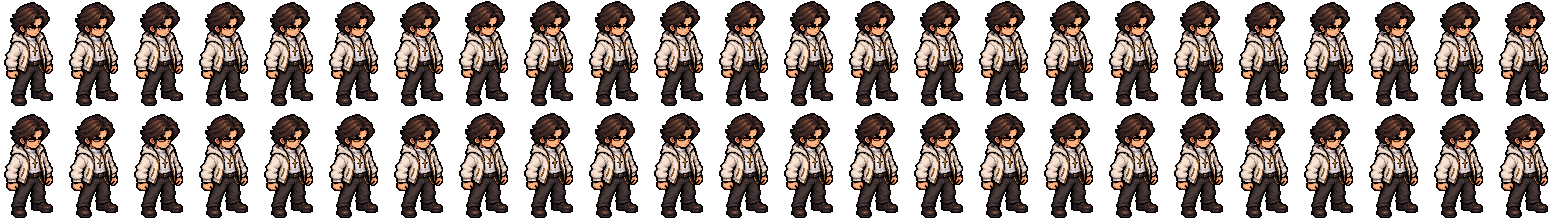
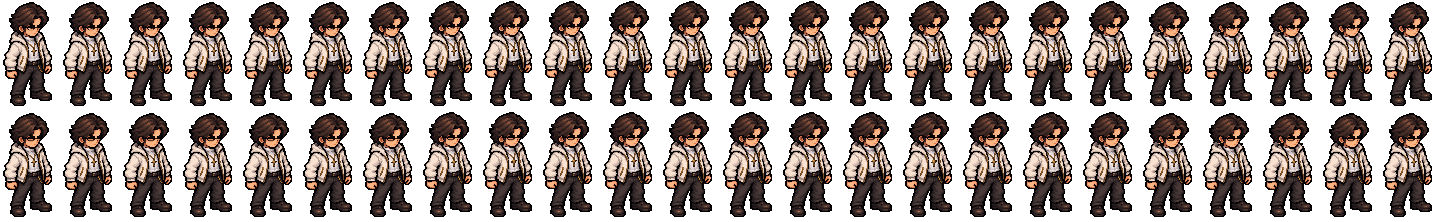
Boneco: o andar desenhado quadro a quadro entra pelo boneco.py
- Joelho e cotovelo exagerados ficaram estranhos: girar peças de um
  desenho de 104 pixels quebra as linhas do pixel art. O andar montado
  das peças volta à versão contida e fica provisório.
- scripts/boneco.py --andar-desenhado <pasta>: lê o andar desenhado de
  cada direção (andar-<estado>-<direção>.png, os quadros lado a lado,
  fundo verde ou transparente), separa os quadros, reduz para a escala
  da pose parada, pinta com as cores dela, alinha pelo meio do tronco e
  pelo pé mais baixo e acha os pés para a sombra. Faltando sw, w ou nw,
  espelha se, e ou ne. O parado continua respirando e piscando.
- Cada direção pode ter a sua fase do andar no meio da casa (faseAndar
  no anim.json), porque o desenho pode começar o ciclo em outro ponto.
- ARTE.md, CHECKLIST-ARTE.md e AGENTS.md com o formato do pedido.

Changed region(s): [[0.0, 0.5135, 1.0, 0.973], [0.0, 0.0, 1.0, 0.4865]]

diff --git a/client/src/room/RoomView.ts b/client/src/room/RoomView.ts
@@ -1209,7 +1209,7 @@ export class RoomView {
         const fechado = bd.info.olhos && piscando(u, now);
         if (p.moving) {
           const n = bd.andar.length;
-          const i = Math.floor((((casas + la.anim.faseAndar) % 1) + 1) % 1 * n) % n;
+          const i = Math.floor((((casas + (bd.info.faseAndar ?? la.anim.faseAndar)) % 1) + 1) % 1 * n) % n;
           bq = (fechado && bd.andarFechado ? bd.andarFechado : bd.andar)[i];
           bpes = bd.info.pesAndar[i] ?? null;
         } else {

diff --git a/server/src/portraits.ts b/server/src/portraits.ts
@@ -131,6 +131,7 @@ export function findAnim(sheet: string, dir = ART_DIR): AnimTabuleiro | undefine
         andar: { url: url + d.andar.arquivo, quadros: d.andar.quadros },
         pesParado: d.pesParado ?? [],
         pesAndar: d.pesAndar ?? [],
+        ...(typeof d.faseAndar === 'number' ? { faseAndar: d.faseAndar } : {}),
       };
     }
     if (Object.keys(out).length) estados[s] = out;

diff --git a/shared/src/protocol.ts b/shared/src/protocol.ts
@@ -162,6 +162,8 @@ export interface AnimDirecao {
   andar: AnimTira;
   pesParado: PeQuadro[][];
   pesAndar: PeQuadro[][];
+  /** a fase do andar no meio da casa só desta direção (o andar desenhado pode começar o ciclo em outro ponto) */
+  faseAndar?: number;
 }
 
 /** O boneco animado do tabuleiro (anim.json, gerado por scripts/boneco.py). */

diff --git a/scripts/boneco.py b/scripts/boneco.py
@@ -14,15 +14,18 @@ são cópias mais escuras dos de perto.
 
 O movimento é de um esqueleto 3D, projetado na grade do tabuleiro em cada
 direção:
-- andar: um ciclo (dois passos) por casa, com contato, passagem e impulso; o
-  pé que apoia vai para trás no chão e o outro passa no ar; o joelho dobra; o
-  quadril desce no contato e sobe na passagem e leva o peso para o lado da
-  perna que apoia; os braços vão ao contrário das pernas, com o cotovelo
-  dobrando na ida; o tronco inclina um pouco e os ombros giram ao contrário
-  do quadril; a bota rola do calcanhar para a ponta;
 - parado: a respiração (peito, ombros, pescoço, cabeça e braços sobem um
-  pouco, cada um um tempo depois do outro);
-- o cabelo e a barra do casaco vão atrás, com mola.
+  pouco, cada um um tempo depois do outro; o cabelo e a barra vão atrás) e,
+  em cada quadro, a versão de olhos fechados para piscar;
+- andar (provisório): um ciclo (dois passos) por casa; o pé que apoia vai
+  para trás no chão e o outro passa um pouco erguido, o quadril sobe e desce,
+  os braços vão ao contrário das pernas. Girar peças de um desenho de 104
+  pixels quebra o pixel art, então o andar bom vem desenhado quadro a quadro:
+  com --andar-desenhado <pasta> (andar-<estado>-<direção>.png, os quadros
+  lado a lado, fundo verde ou transparente), os quadros são separados,
+  reduzidos para a escala da pose parada, pintados com as cores dela e
+  alinhados pelo meio do tronco e pelo pé mais baixo; faltando sw, w ou nw,
+  entra se, e ou ne espelhado.
 
 As peças do tronco e da roupa deslizam linha a linha (cisalhamento, como o
 animador de pixel art faz nas inclinações pequenas); as dos membros giram em
@@ -37,7 +40,7 @@ Grava na pasta das poses do personagem:
   ficam os pés em cada quadro (a sombra de contato vai embaixo de cada um).
 
 Uso:
-  python scripts/boneco.py <personagem> [--estado desarmado] [--previa saida.png]
+  python scripts/boneco.py <personagem> [--estado desarmado] [--andar-desenhado <pasta>] [--quadros 8] [--previa saida.png]
 
 Precisa de Python com PyMuPDF e numpy (os mesmos do Veríssimo).
 """
@@ -271,7 +274,7 @@ class Esqueleto:
         self.tornozelo = r['tornozelo_d'][2]
         self.pes = {}
 
-    def andar(self, fi, passo=0.19, apoio=0.56, ergue=0.13, balanco=0.014, braco=22.0):
+    def andar(self, fi, passo=0.17, apoio=0.56, ergue=0.055, balanco=0.013, braco=16.0):
         """A pose do andar na fase fi (0..1): o pé direito pisa em 0 e o esquerdo em 0,5."""
         j = {k: v.copy() for k, v in self.rep.items()}
         # andando, os joelhos ficam um pouco dobrados (o quadril desce 2 cm): sobra perna para o
@@ -296,17 +299,15 @@ class Esqueleto:
             f = (fi - desl) % 1.0
             quad = j[f'quadril_{ld}']
             if f < apoio:
-                # no chão: o pé vai do passo à frente até o passo atrás; no fim, o calcanhar sobe
-                # antes de o pé sair (o joelho já começa a dobrar)
+                # no chão: o pé vai do passo à frente até o passo atrás
                 pe_f = passo - 2 * passo * (f / apoio)
-                alt = 0.035 * suave((f - (apoio - 0.14)) / 0.14)
+                alt = 0.0
                 incl = 14 * (1 - suave(f / 0.12)) - 22 * suave((f - (apoio - 0.16)) / 0.16)
             else:
-                # no ar: o pé sai de trás chutando um pouco para trás e para cima (o joelho dobra bem,
-                # o calcanhar vai para perto da coxa), passa embaixo do corpo e estica para pisar
+                # no ar: o pé passa embaixo do corpo, um pouco erguido
                 a = (f - apoio) / (1 - apoio)
-                pe_f = -passo + 2 * passo * suave((a - 0.12) / 0.88) - 0.075 * math.sin(math.pi * min(1.0, a / 0.55))
-                alt = 0.035 * (1 - suave(a / 0.25)) + ergue * math.sin(math.pi * min(1.0, a / 0.85)) ** 0.9
+                pe_f = -passo + 2 * passo * suave(a)
+                alt = ergue * math.sin(math.pi * a) ** 1.2
                 incl = -22 * (1 - suave(a / 0.35)) + 12 * suave((a - 0.55) / 0.45)
             r_pe = self.rep[f'tornozelo_{ld}'][1] + (quad[1] - self.rep[f'quadril_{ld}'][1]) * 0.3
             torn = np.array([quad[0] + pe_f, r_pe, self.tornozelo + alt])
@@ -317,8 +318,8 @@ class Esqueleto:
         for ld, desl in (('d', 0.0), ('e', 0.5)):
             f = (fi - desl - 0.04) % 1.0
             alfa = -braco * math.cos(2 * math.pi * f)
-            # o cotovelo fica sempre um pouco dobrado e dobra mais quando o braço vai para a frente
-            beta = 14 + 42 * max(0.0, -math.cos(2 * math.pi * f)) ** 1.2
+            # o cotovelo dobra um pouco quando o braço vai para a frente
+            beta = 4 + 10 * max(0.0, -math.cos(2 * math.pi * f))
             self._braco(j, ld, alfa, beta)
         return j
 
@@ -705,7 +706,159 @@ def tira(linhas, x0, y0, x1, y1):
     return out
 
 
-def gerar(personagem, estado, previa=None):
+# ---------------------------------------------------------------- o andar desenhado (quadro a quadro)
+
+ESPELHO = {'e': 'w', 'w': 'e', 'se': 'sw', 'sw': 'se', 'ne': 'nw', 'nw': 'ne'}
+
+
+def ler_fonte(caminho):
+    """A imagem do gerador: o verde puro (#00FF00) vira transparente; o corpo fica opaco e o halo sai."""
+    a = ler_rgba(caminho)
+    verde = (a[:, :, 0] < 60) & (a[:, :, 1] > 200) & (a[:, :, 2] < 60)
+    a[verde] = 0
+    op = a[:, :, 3] >= 128
+    a[~op] = 0
+    a[op, 3] = 255
+    return a
+
+
+def fonte_andar(pasta, estado, nome):
+    """O andar desenhado da direção (ou o da direção espelhada, virado de lado). (imagem, espelhada) ou (None, False)."""
+    for d, espelha in ((nome, False), (ESPELHO.get(nome), True)):
+        if not d or not pasta:
+            continue
+        for arq in (f'andar-{estado}-{d}.png', f'andar-{d}.png', f'{d}.png'):
+            p = os.path.join(pasta, arq)
+            if os.path.exists(p):
+                a = ler_fonte(p)
+                return (a[:, ::-1].copy() if espelha else a), espelha
+    return None, False
+
+
+def faixas_cheias(v, minimo=1, vao=3):
+    """Faixas de colunas com corpo, separadas por pelo menos `vao` colunas vazias."""
+    out, ini, vazio = [], None, 0
+    for i, x in enumerate(v):
+        if x >= minimo:
+            if ini is None:
+                ini = i
+            vazio = 0
+            fim = i
+        elif ini is not None:
+            vazio += 1
+            if vazio >= vao:
+                out.append((ini, fim))
+                ini = None
+    if ini is not None:
+        out.append((ini, fim))
+    return out
+
+
+def quadros_da_tira(a, n):
+    """Os `n` quadros de uma tira do gerador (lado a lado), cada um recortado no corpo."""
+    op = a[:, :, 3] > 0
+    cols = faixas_cheias(op.sum(axis=0))
+    if len(cols) != n:
+        # quadros encostados: corta em partes iguais
+        w = a.shape[1] / n
+        cols = [(int(round(i * w)), int(round((i + 1) * w)) - 1) for i in range(n)]
+    out = []
+    for x0, x1 in cols:
+        cel = a[:, x0:x1 + 1]
+        ys, xs = np.nonzero(cel[:, :, 3] > 0)
+        out.append(cel[ys.min():ys.max() + 1, xs.min():xs.max() + 1].copy())
+    return out
+
+
+def reduzir_pixel(rgba, escala):
+    """Pixel duro: cada pixel novo pega a cor mais frequente do bloco; só fica opaco se o bloco for mais da metade corpo."""
+    h, w = rgba.shape[:2]
+    oh, ow = max(1, int(round(h * escala))), max(1, int(round(w * escala)))
+    out = np.zeros((oh, ow, 4), dtype=np.uint8)
+    op = rgba[:, :, 3] > 0
+    for v in range(oh):
+        y0 = int(v / escala)
+        y1 = max(y0 + 1, int((v + 1) / escala))
+        for u in range(ow):
+            x0 = int(u / escala)
+            x1 = max(x0 + 1, int((u + 1) / escala))
+            bloco = op[y0:y1, x0:x1]
+            if bloco.size == 0 or bloco.mean() < 0.5:
+                continue
+            cores = rgba[y0:y1, x0:x1, :3][bloco].astype(int)
+            chave = (cores[:, 0] // 24) * 10000 + (cores[:, 1] // 24) * 100 + cores[:, 2] // 24
+            vals, cont = np.unique(chave, return_counts=True)
+            out[v, u, :3] = cores[chave == vals[cont.argmax()]].mean(axis=0).round().astype(np.uint8)
+            out[v, u, 3] = 255
+    return out
+
+
+def centro_e_chao(q):
+    """O meio do tronco e da cabeça (os 55% de cima do corpo) e a linha do chão (embaixo do pé mais baixo)."""
+    op = q[:, :, 3] > 0
+    ys, xs = np.nonzero(op)
+    topo, base = ys.min(), ys.max()
+    cima = ys <= topo + 0.55 * (base - topo)
+    return float(xs[cima].mean()), int(base) + 1
+
+
+def pes_do_quadro(q, x_anc, y_anc, lado):
+    """Os dois pés de um quadro desenhado (as duas manchas de baixo), em pixels a partir da âncora."""
+    op = q[:, :, 3] > 0
+    ys, xs = np.nonzero(op)
+    chao = ys.max() + 1
+    faixa = op[max(0, chao - 6):chao]
+    cols = faixas_cheias(faixa.sum(axis=0), 1, 2)
+    manchas = []
+    for x0, x1 in cols:
+        sub = op[:chao, x0:x1 + 1]
+        fundo = np.nonzero(sub.any(axis=1))[0].max() + 1
+        manchas.append(((x0 + x1) / 2, fundo, int(faixa[:, x0:x1 + 1].sum())))
+    manchas = sorted(manchas, key=lambda m: -m[2])[:2] or [(xs.mean(), chao, 1)]
+    if len(manchas) == 1:
+        manchas = manchas * 2
+    out = []
+    for x, fundo, _ in sorted(manchas):
+        # de lado dá para ver o pé no ar (a sola acima do chão); de frente ou de costas, o pé de trás também fica mais alto
+        alt = float(chao - fundo) if lado else 0.0
+        out.append([round(float(x - x_anc), 1), round(float(fundo - 3 - y_anc + alt), 1), round(alt, 1)])
+    return out
+
+
+def andar_desenhado(fonte, img_parada, anc_parada, n, lado):
+    """
+    Os quadros do andar desenhado de uma direção, no quadro do boneco (com as
+    margens): na escala da pose parada, com as cores dela, o meio do tronco
+    alinhado com o dela e o pé mais baixo no chão dela. Devolve (quadros, pés).
+    """
+    qs = quadros_da_tira(fonte, n)
+    op = img_parada[:, :, 3] > 0
+    ys = np.nonzero(op.any(axis=1))[0]
+    alvo = ys.max() - ys.min() + 1
+    escala = alvo / float(np.median([q.shape[0] for q in qs]))
+    paleta = np.unique(img_parada[op][:, :3].astype(int), axis=0)
+    cx0, chao0 = centro_e_chao(img_parada)
+    H, W = img_parada.shape[:2]
+    Ho, Wo = H + MT + MB, W + ML + MR
+    quadros, pes = [], []
+    for q in qs:
+        r = reduzir_pixel(q, escala)
+        m = r[:, :, 3] > 0
+        # as cores da pose parada (sem pular de cor quando ela sai andando)
+        r[m, :3] = mais_perto(r[m][:, :3].astype(float), paleta)
+        cx, chao = centro_e_chao(r)
+        dx, dy = int(round(cx0 - cx)) + ML, chao0 - chao + MT
+        out = np.zeros((Ho, Wo, 4), dtype=np.uint8)
+        h, w = r.shape[:2]
+        y0, x0 = max(0, dy), max(0, dx)
+        y1, x1 = min(Ho, dy + h), min(Wo, dx + w)
+        out[y0:y1, x0:x1] = r[y0 - dy:y1 - dy, x0 - dx:x1 - dx]
+        quadros.append(out)
+        pes.append(pes_do_quadro(out, anc_parada[0] + ML, anc_parada[1] + MT, lado))
+    return quadros, pes
+
+
+def gerar(personagem, estado, previa=None, desenhado=None, quadros_desenhados=8):
     anot = json.load(open(os.path.join(BONECOS, f'{personagem}.json'), encoding='utf-8'))
     pasta = os.path.join(PERSONAGENS, personagem, SUB)
     s = anot['direcoes']['s']
@@ -721,13 +874,19 @@ def gerar(personagem, estado, previa=None):
         d = Direcao(nome, img, anot['direcoes'][nome], esq)
         olhos = 'cabeca_fechada' in d.pecas
         res = {}
+        fonte, espelhada = fonte_andar(desenhado, estado, nome)
         for tipo in ('parado', 'andar'):
             abertos, fechados, pes = [], [], []
-            for p, extra, pe in ciclo(d, esq, tipo):
-                abertos.append(d.quadro(p, extra))
-                if olhos:
-                    fechados.append(d.quadro(p, dict(extra, olhos_fechados=True)))
-                pes.append(pe)
+            if tipo == 'andar' and fonte is not None:
+                # o andar desenhado quadro a quadro (sem a linha de olhos fechados: andando, não pisca)
+                abertos, pes = andar_desenhado(fonte, img, anot['direcoes'][nome]['chao'], quadros_desenhados, nome in ('e', 'w'))
+                print(f'{nome}: andar desenhado' + (' (espelhado)' if espelhada else ''))
+            else:
+                for p, extra, pe in ciclo(d, esq, tipo):
+                    abertos.append(d.quadro(p, extra))
+                    if olhos:
+                        fechados.append(d.quadro(p, dict(extra, olhos_fechados=True)))
+                    pes.append(pe)
             res[tipo] = (abertos, fechados, pes)
         todos = [q for t in res.values() for q in t[0] + t[1]]
         x0, y0, x1, y1 = recorte(todos)
@@ -735,18 +894,24 @@ def gerar(personagem, estado, previa=None):
         info = {'w': int(x1 - x0), 'h': int(y1 - y0), 'ax': round(float(anc[0]), 1), 'ay': round(float(anc[1]), 1), 'olhos': olhos}
         for tipo, (abertos, fechados, pes) in res.items():
             arq = f'{tipo}-{estado}-{nome}.png'
-            gravar_rgba(tira([abertos] + ([fechados] if olhos else []), x0, y0, x1, y1), os.path.join(pasta, arq))
+            gravar_rgba(tira([abertos] + ([fechados] if fechados else []), x0, y0, x1, y1), os.path.join(pasta, arq))
             info[tipo] = {'arquivo': arq, 'quadros': len(abertos)}
             info['pes' + tipo.capitalize()] = pes
-        manifesto['estados'][estado][nome] = info
-        # a fase do meio da casa: a passagem (os pés mais perto do lugar de parado)
+        # a fase do meio da casa: a passagem (os pés mais perto do lugar de parado e um do outro)
         pes_andar = res['andar'][2]
         pes_parado = res['parado'][2][0]
-        fases.append([sum(abs(a - b) for pa, pb in zip(pe, pes_parado) for a, b in zip(pa[:2], pb[:2])) + sum(pa[2] for pa in pe) for pe in pes_andar])
+        custo_dir = [sum(abs(a - b) for pa, pb in zip(pe, pes_parado) for a, b in zip(pa[:2], pb[:2])) + sum(pa[2] for pa in pe) for pe in pes_andar]
+        if fonte is not None:
+            # desenhado: a passagem é o quadro com os pés mais juntos
+            custo_dir = [abs(pe[0][0] - pe[1][0]) + abs(pe[0][1] - pe[1][1]) for pe in pes_andar]
+            info['faseAndar'] = round(float(np.argmin(custo_dir)) / len(pes_andar), 4)
+        else:
+            fases.append(custo_dir)
+        manifesto['estados'][estado][nome] = info
         if previa:
             linhas_previa.append([q[y0:y1, x0:x1] for q in res['parado'][0][:1] + res['andar'][0]])
         print(f'{nome}: {info["w"]}x{info["h"]}, âncora ({info["ax"]}, {info["ay"]}), olhos: {"sim" if olhos else "não"}')
-    custo = np.sum(np.array(fases), axis=0)
+    custo = np.sum(np.array(fases), axis=0) if fases else np.zeros(N_ANDAR)
     manifesto['faseAndar'] = round(float(np.argmin(custo)) / N_ANDAR, 4)
     with open(os.path.join(pasta, 'anim.json'), 'w', encoding='utf-8', newline='\n') as f:
         json.dump(manifesto, f, ensure_ascii=False, separators=(',', ':'))
@@ -773,8 +938,10 @@ def main():
     ap.add_argument('personagem', help='pasta em client/public/arte/personagens e marcações em scripts/bonecos (ex.: alosi)')
     ap.add_argument('--estado', default='desarmado')
     ap.add_argument('--previa', help='grava também uma folha ampliada com os quadros')
+    ap.add_argument('--andar-desenhado', help='pasta com o andar desenhado quadro a quadro (andar-<estado>-<direção>.png, os quadros lado a lado)')
+    ap.add_argument('--quadros', type=int, default=8, help='quadros de cada tira do andar desenhado (8 por padrão)')
     a = ap.parse_args()
-    gerar(a.personagem, a.estado, a.previa)
+    gerar(a.personagem, a.estado, a.previa, a.andar_desenhado, a.quadros)
 
 
 if __name__ == '__main__':

diff --git a/AGENTS.md b/AGENTS.md
@@ -86,7 +86,7 @@ Pediram arte ("começa a arte", "faz os retratos", "faz os ícones da FICHAS")? 
 - **Ficha:** PV, PE e SAN (atual e total) por personagem, com as condições do livro (machucado, perturbado, morrendo, enlouquecendo). As cartas mostram as barrinhas; o retrato respira conforme a ficha e usa a imagem do estado (`docs/ARTE.md`). Peça de agente sem PV, PE e SAN (nova, ou de antes da ficha) pega os da ficha quando o servidor sobe.
 - A mesa (`client/src/ui/table.ts`) só mostra o tabuleiro e segue a última cena que o mestre abriu, em qualquer campanha; em combate, mostra também a rodada, de quem é a vez e a ordem. O servidor recusa qualquer ação que venha da mesa.
 - O contrato (`docs/CONTRATO.md`) e o `SessionStore` existem; a tela MAPA ainda usa parte das mensagens antigas.
-- Personagens: D.Tepes, Catarina Albuquerque, Alosi Walker e Cora Falcão, com as folhas em `client/public/arte/personagens/`. O mestre gira o personagem parado com ↺ ↻ nas cartas ou Q e E. **Decidido em 30/09:** essas folhas são a arte de referência de cada agente (grande na FICHAS e, depois, na Hand do jogador); o tabuleiro vai ganhar folhas novas, em estilo 32 bits, com todos os ângulos e as animações de andar. **Poses do tabuleiro:** o Tepes já tem as quatro poses paradas em 32 bits (`tabuleiro-32bits/`, frente virada para a direita); o servidor acha as imagens na pasta (`findPoses`, em `server/src/portraits.ts`) e o tabuleiro e a mesa escolhem a pose pelo Armado e pelos PV (menos da metade = machucado). As outras direções entram sozinhas quando chegarem, no formato do `docs/ARTE.md` ("Poses do tabuleiro"). **Decidido em 30/09, revisto em 01/10:** o tabuleiro inteiro (bonecos e mapa) vai para pixel art chibi na grade 1:1 (1 pixel da arte = 1 da tela: casa 64×32, pessoa ~104 de altura; na 2:1 o rosto e os óculos da Alosi sumiam), descrita no `docs/ARTE.md`; as poses realistas do Tepes ficam até chegarem as chibi. **Alosi no chibi (01/10):** as 8 direções paradas, montadas por `npm run arte:poses` (`scripts/poses.py`) a partir da imagem do gerador. **Boneco animado (02/10):** `npm run arte:boneco -- alosi` (`scripts/boneco.py`, marcações em `scripts/bonecos/alosi.json`) recorta a pose de cada direção em peças e anima com um esqueleto 3D projetado na grade: andar com o ciclo inteiro (joelho e cotovelo dobrando, braços opostos, quadril subindo e descendo, cabelo e barra com mola), respiração e piscada; grava tiras e `anim.json`, que o servidor acha (`findAnim`) e o tabuleiro toca (o passo segue as casas andadas, a piscada é aleatória, sombra em cada pé). Todas as peças pisam no chão: pegada no meio da casa, sombra de contato, pés escurecidos, a sombra que as luzes do cenário projetam (a luz do mobi guarda onde fica no cômodo, `mundo`) e a cor dessas luzes no corpo; sombras e anel vão antes dos móveis.
+- Personagens: D.Tepes, Catarina Albuquerque, Alosi Walker e Cora Falcão, com as folhas em `client/public/arte/personagens/`. O mestre gira o personagem parado com ↺ ↻ nas cartas ou Q e E. **Decidido em 30/09:** essas folhas são a arte de referência de cada agente (grande na FICHAS e, depois, na Hand do jogador); o tabuleiro vai ganhar folhas novas, em estilo 32 bits, com todos os ângulos e as animações de andar. **Poses do tabuleiro:** o Tepes já tem as quatro poses paradas em 32 bits (`tabuleiro-32bits/`, frente virada para a direita); o servidor acha as imagens na pasta (`findPoses`, em `server/src/portraits.ts`) e o tabuleiro e a mesa escolhem a pose pelo Armado e pelos PV (menos da metade = machucado). As outras direções entram sozinhas quando chegarem, no formato do `docs/ARTE.md` ("Poses do tabuleiro"). **Decidido em 30/09, revisto em 01/10:** o tabuleiro inteiro (bonecos e mapa) vai para pixel art chibi na grade 1:1 (1 pixel da arte = 1 da tela: casa 64×32, pessoa ~104 de altura; na 2:1 o rosto e os óculos da Alosi sumiam), descrita no `docs/ARTE.md`; as poses realistas do Tepes ficam até chegarem as chibi. **Alosi no chibi (01/10):** as 8 direções paradas, montadas por `npm run arte:poses` (`scripts/poses.py`) a partir da imagem do gerador. **Boneco animado (02/10):** `npm run arte:boneco -- alosi` (`scripts/boneco.py`, marcações em `scripts/bonecos/alosi.json`) recorta a pose de cada direção em peças e faz o parado respirar e piscar; o andar vem desenhado quadro a quadro (`--andar-desenhado`, formato no `docs/ARTE.md`), e até chegar fica um andar provisório montado das peças (peças giradas quebram o pixel art: joelho e cotovelo exagerados ficaram estranhos). Grava tiras e `anim.json`, que o servidor acha (`findAnim`) e o tabuleiro toca (o passo segue as casas andadas, a piscada é aleatória, sombra em cada pé). Todas as peças pisam no chão: pegada no meio da casa, sombra de contato, pés escurecidos, a sombra que as luzes do cenário projetam (a luz do mobi guarda onde fica no cômodo, `mundo`) e a cor dessas luzes no corpo; sombras e anel vão antes dos móveis.
 - **Regras:** tudo do jogo fica no CROMA (fichas, regras, dados, regras da casa). O C.R.I.S (sistema do mestre, repositório SistemaDeMestragemRPG) serviu só de referência para entender o sistema de Ordem Paranormal e como tratá-lo aqui; o CROMA não depende dele (não lê o banco de lá, não importa código nem arte). As regras ficam no próprio código (`shared/src/regras/`), conferidas com o livro. O mapa das regras, o que cada uma muda no tabuleiro e a ordem de construção estão em `docs/REGRAS.md`.
 - Os bilhetes de confirmação (`client/src/ui/note.ts`) ainda não têm estilo.
 - **Motor de criação de personagem** em `shared/src/regras/` (exportado como `regras` em `@croma/shared`): catálogos do livro e do *Sobrevivendo ao Horror*, ficha NEX a NEX de 0% a 99%, requisitos com motivo, contas e opções. Ainda sem tela; as telas estão descritas em `docs/CRIACAO-DE-PERSONAGEM.md`.

diff --git a/docs/ARTE.md b/docs/ARTE.md
@@ -101,11 +101,12 @@ npm run arte:boneco -- alosi
 ```
 
   Ele usa as marcações de `scripts/bonecos/<nome>.json`: em cada direção, as juntas (quadril, tornozelo, ombro, pulso, pescoço, cabeça; o joelho e o cotovelo são calculados), o chão embaixo do corpo, onde fica cada peça (polígonos), as pontas do cabelo, a barra do casaco, o que o tronco esconde atrás do braço, os membros do lado de longe (de lado), a ordem de desenho e os pixels dos olhos. Personagem novo precisa dessas marcações (o construtor faz). Com elas, o boneco é recortado em peças (cabeça, pontas do cabelo, tronco, barra, e de cada lado braço, antebraço, mão, coxa, canela e bota) e animado por um esqueleto 3D projetado na grade de cada direção:
-  - **andando:** um ciclo (dois passos) por casa, em 16 quadros, com contato, passagem e impulso. O pé que apoia vai para trás no chão; o outro sai chutando para trás, com o joelho bem dobrado, e estica para pisar. O quadril desce no contato, sobe na passagem e leva o peso para a perna que apoia. Os braços vão ao contrário das pernas, com o cotovelo dobrando na ida. O tronco inclina um pouco e os ombros giram ao contrário do quadril. A bota rola do calcanhar para a ponta. O cabelo e a barra do casaco vão atrás, com mola;
+  - **andando (provisório, até chegar o andar desenhado):** um ciclo (dois passos) por casa, em 16 quadros: o pé que apoia vai para trás no chão e o outro passa um pouco erguido; o quadril sobe e desce; os braços vão ao contrário das pernas. Peças giradas de um desenho de 104 pixels quebram as linhas do pixel art (joelho e cotovelo bem dobrados ficaram estranhos, 02/10), então o andar bom vem desenhado quadro a quadro (abaixo);
   - **parado:** a respiração em 24 quadros (3,6 s): peito, ombros, pescoço, cabeça e braços sobem um pouco, cada um um tempo depois do outro; o cabelo vai por último;
   - **piscando:** cada quadro tem também a versão de olhos fechados.
 
   As peças do tronco e da roupa deslizam linha a linha (como o pixel art faz nas inclinações pequenas); as dos membros giram em volta da junta, sem amassar; tudo em pixel duro. Grava em `tabuleiro-32bits/`: `parado-<estado>-<direção>.png` e `andar-<estado>-<direção>.png` (tiras com os quadros lado a lado; a segunda linha, quando a direção mostra os olhos, é a de olhos fechados) e `anim.json` (tamanho e âncora de cada direção, quantos quadros, o tempo do parado, a fase do andar no meio da casa e onde ficam os pés em cada quadro). Com o `anim.json`, o boneco vale no lugar das poses e dos passos.
+- **Andar desenhado quadro a quadro** (o que fica perfeito): **uma imagem por direção**, com os **8 quadros do ciclo lado a lado, numa fileira só**, todos na mesma escala, com os pés na mesma linha, fundo verde puro `#00FF00` (ou transparente), sem chão, sem sombra, sem texto e sem moldura. O ciclo começa no contato do pé direito: 1 contato (pé direito na frente, calcanhar no chão), 2 baixo (o peso na perna direita, joelhos dobrados), 3 passagem (a perna esquerda passa do lado da direita, com o joelho dobrado e o pé no ar), 4 alto (a esquerda vai à frente), 5 contato (pé esquerdo na frente), 6 baixo, 7 passagem (a direita passa), 8 alto. Os braços vão ao contrário das pernas, com o cotovelo um pouco dobrado; cabelo e casaco balançam um pouco a cada passo. Mesmo personagem, mesmas cores e proporções da imagem das 8 direções paradas. Nome: `andar-<estado>-<direção>.png` (ex.: `andar-desarmado-se.png`), numa pasta qualquer; o construtor roda `npm run arte:boneco -- alosi --andar-desenhado <pasta>`: os quadros são separados, reduzidos para a escala da pose parada, pintados com as cores dela, alinhados pelo meio do tronco e pelo pé mais baixo, e os pés de cada quadro são achados para a sombra de contato. Pode vir com outro número de quadros (`--quadros 6`). Faltando `sw`, `w` ou `nw`, entra `se`, `e` ou `ne` espelhado (a corrente troca de lado: o melhor é ter as 8). O parado continua respirando e piscando pelo boneco; andando, ele não pisca.
 - **Quadros de andar desenhados à mão** (para quem não tem boneco): `andar-<estado>-<direção>-<n>.png` com n = 1, 2, 3... em ordem, no mesmo tamanho da pose parada da direção e com os pés no mesmo ponto. Um ciclo são dois passos, e o jogo toca um ciclo por casa; pode ter de 4 a 16 quadros. Entram sozinhos.
 - **Como o jogo escolhe:** o estado vem do botão **Armado** (no painel da peça) e dos PV (**menos da metade = machucado**, como no livro); a direção vem da peça (↺ ↻, Q e E) ou do caminho que ela anda. Faltando uma direção, usa a vizinha; faltando um estado, o mais parecido. No carregamento, o quase transparente em volta some e o corpo fica totalmente opaco.
 - **Como o jogo toca o boneco:** andando, o quadro vem do quanto a peça já andou (e não do relógio): no meio de cada casa ela está na passagem, então para ali com os pés juntos, e virando no caminho o passo continua na direção nova. Parado, respira com a fase de cada peça (os agentes não respiram juntos) e pisca em hora aleatória, de 2,4 a 6 s, às vezes duas vezes seguidas. A sombra de contato vai embaixo de cada pé, menor e mais clara com o pé no ar.

diff --git a/docs/CHECKLIST-ARTE.md b/docs/CHECKLIST-ARTE.md
@@ -121,7 +121,8 @@ Nada novo: usa os retratos, os ícones e as folhas da FICHAS. Os cartões de res
 - [x] **Tepes — quatro poses idle de referência em estilo 32 bits, com luz neutra:** `personagens/tepes/tabuleiro-32bits/idle-desarmado.png`, `idle-armado.png`, `idle-armado-machucado.png`, `idle-desarmado-machucado.png` (PNG RGBA, 1024×1536). Imagens estáticas escolhidas por Felipe, no modelo realista; ficam no tabuleiro (a pose muda com o Armado e com os PV) até chegarem as chibi. Formato em [ARTE.md](ARTE.md).
 - [ ] **Os quatro agentes no modelo chibi** (decidido em 30/09): as 8 direções nos 4 estados, `personagens/<nome>/tabuleiro-32bits/idle-<estado>-<direção>.png`, na grade 1:1 do [ARTE.md](ARTE.md). Uma imagem por agente e estado, com as 8 direções numa grade 4×2 (a ordem está no ARTE.md, "Poses do tabuleiro"); pode vir como saiu do gerador: o construtor recorta, reduz e monta os quadros de andar com `npm run arte:poses`. **Feito:** Alosi, desarmado (01/10). **Falta:** Alosi armado e machucada; Catarina, Cora e Tepes.
 
-- **Animações de cada agente para o tabuleiro:** modelo chibi, grade 1:1. O boneco animado (respirando, piscando e andando com o ciclo inteiro) sai das poses paradas com `npm run arte:boneco` (`scripts/boneco.py`, ver o [`ARTE.md`](ARTE.md)): o que precisa da arte são as 8 direções paradas de cada estado. **Feito:** Alosi desarmada (02/10). Faltam as poses de caído e atacando que a referência do COMBATE mostra; o formato delas entra no [`ARTE.md`](ARTE.md) antes de ser feito.
+- [ ] ✱ **O andar desenhado da Alosi, quadro a quadro:** 8 imagens, uma por direção (`andar-desarmado-<direção>.png`), cada uma com os 8 quadros do ciclo lado a lado, no formato do [`ARTE.md`](ARTE.md) ("Andar desenhado quadro a quadro"). Pode vir como saiu do gerador; o construtor recorta, reduz e encaixa.
+- **Animações de cada agente para o tabuleiro:** modelo chibi, grade 1:1. O boneco (`npm run arte:boneco`, `scripts/boneco.py`) faz o parado respirar e piscar a partir das 8 direções paradas, e encaixa o andar desenhado quando ele chega (até lá, um andar provisório montado das peças). **Feito:** Alosi desarmada, parada (02/10). Faltam o andar desenhado de cada agente e as poses de caído e atacando que a referência do COMBATE mostra; o formato delas entra no [`ARTE.md`](ARTE.md) antes de ser feito.
 - **Folha das ameaças para o tabuleiro** (`ocultista`, `acolito`...), no mesmo formato novo.
 - **A Sala de Tecnologia** (o cômodo das referências), pasta `moveis/`, pixel art chibi na grade 1:1 (casa de 64×32 pixels de arte, 1 m ≈ 58), frente e `_costas`: `console` (e desligado), `chair_office`, `fluorescent` (e aceso), `portal`; e as texturas `pisos/carpete.png` (64×32) e `paredes/tijolo-escuro.png` (128×128). Formato em [`SEDE-DA-ORDEM.md`](SEDE-DA-ORDEM.md).
 - **As marcações do combate no chão:** `combate/base-agente.png` e `base-inimigo.png` (256×128, o anel de luz embaixo da peça) e `combate/circulo-ritual.png` (512×256, o círculo de quem sustenta ritual).
